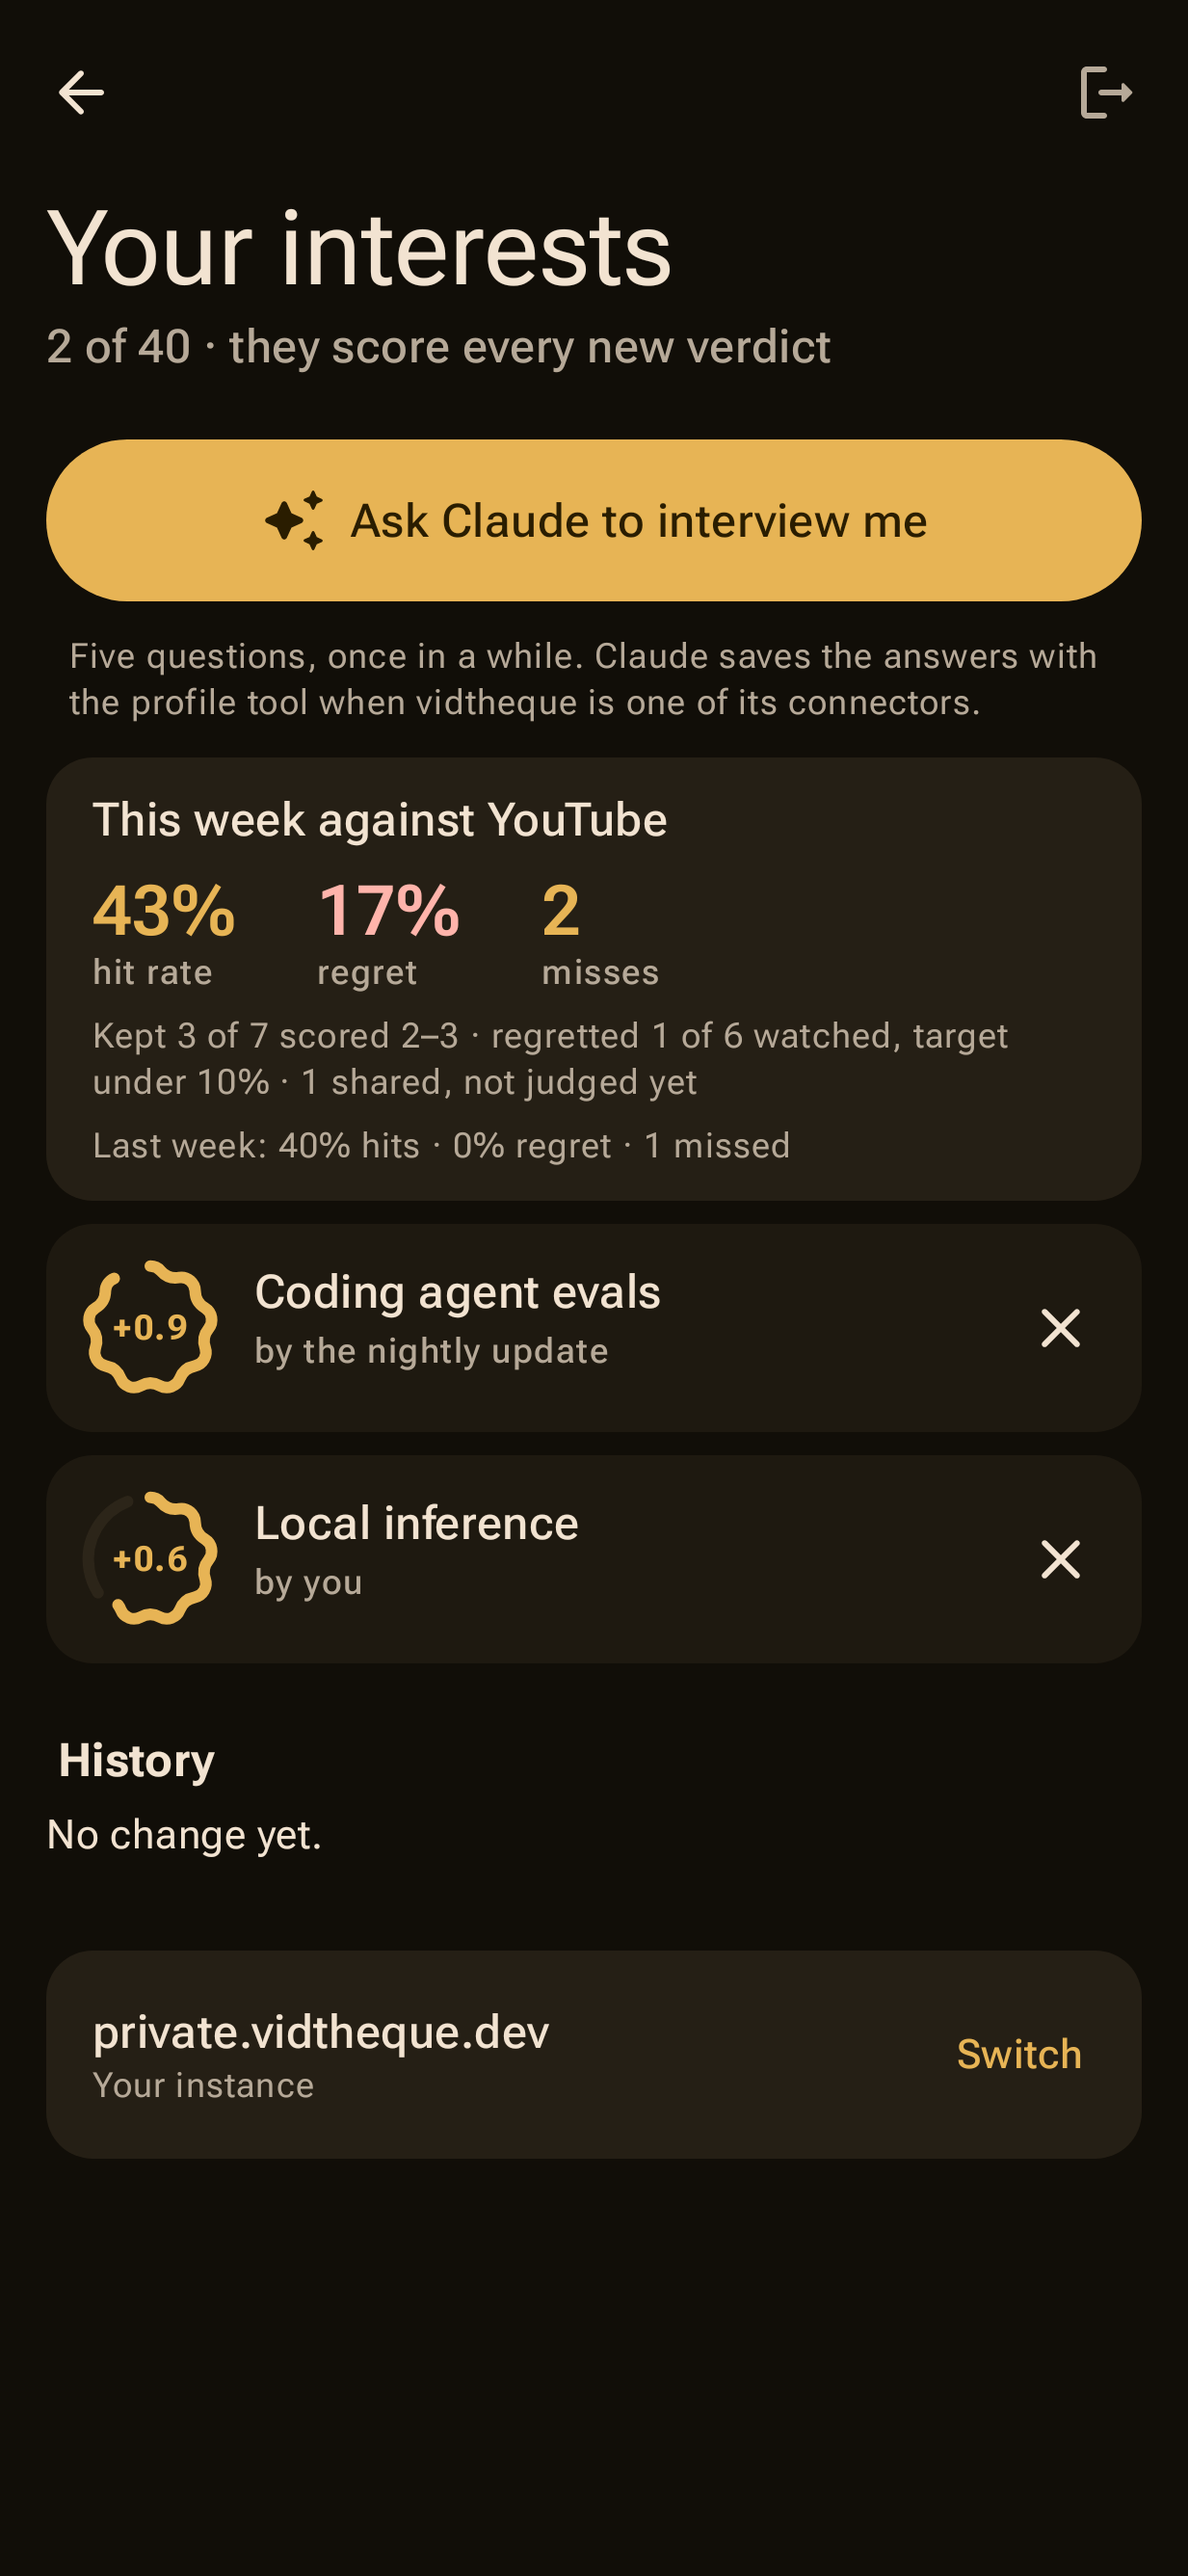
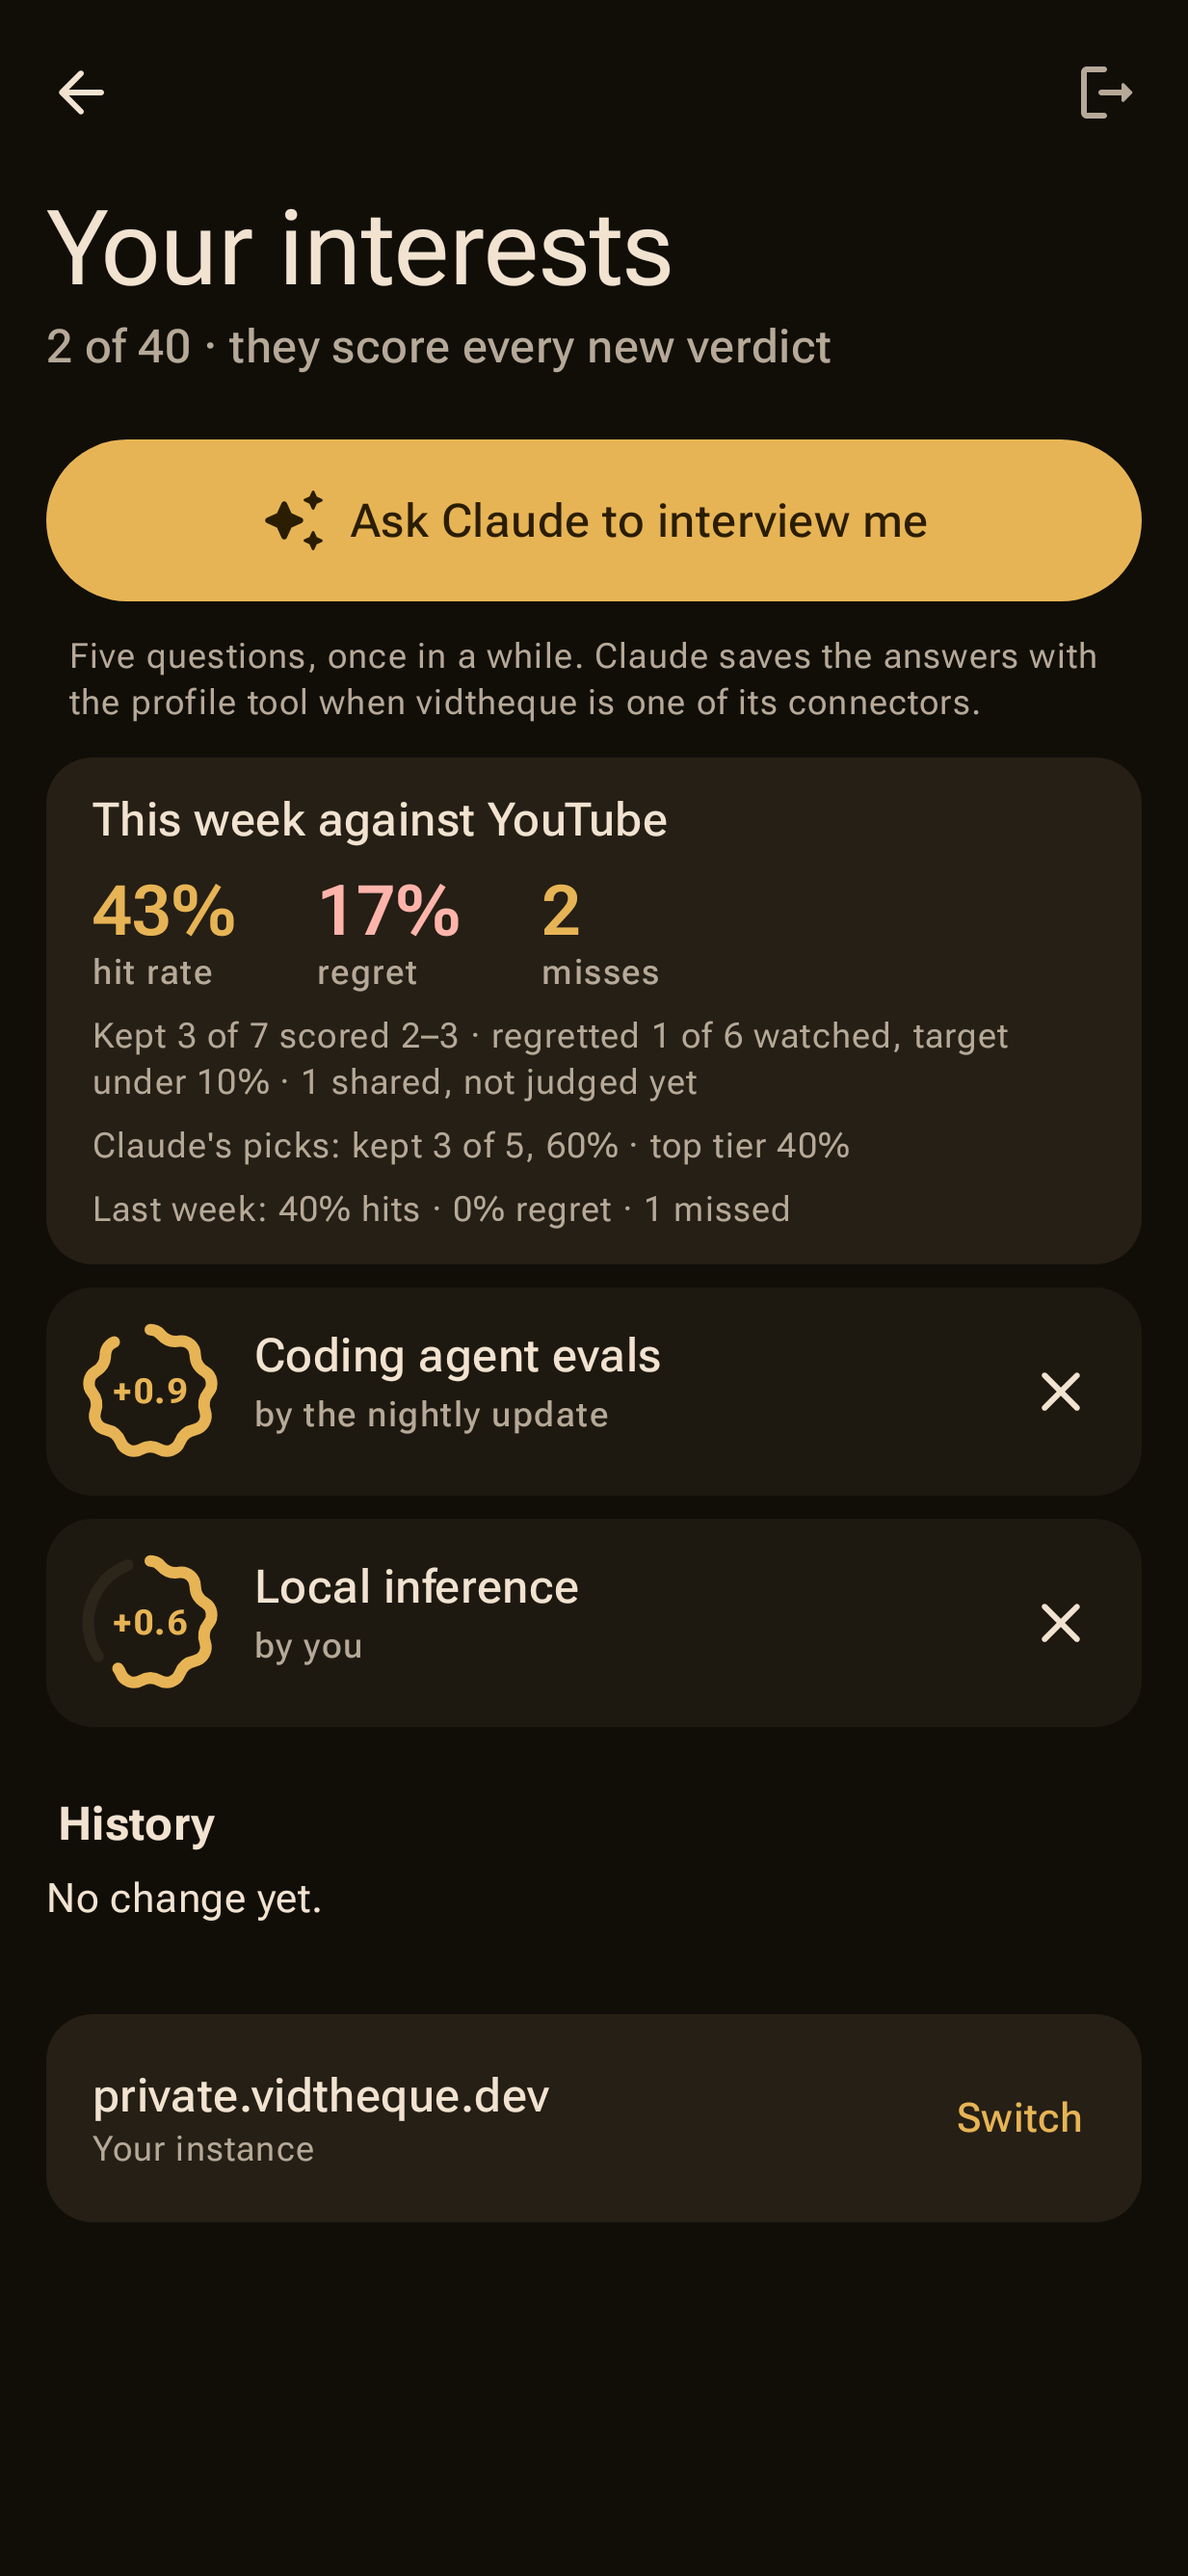
android: Claude's picks open the week, each with its reason (#200)
A pick opens its video alone: the same video can sit in the fitted list
below. The ledger card puts the picks' hit rate beside the top tier's.

diff --git a/android/app/src/main/kotlin/dev/vidtheque/app/ui/week/WeekScreen.kt b/android/app/src/main/kotlin/dev/vidtheque/app/ui/week/WeekScreen.kt
@@ -7,6 +7,8 @@ import androidx.compose.foundation.layout.Column
 import androidx.compose.foundation.layout.PaddingValues
 import androidx.compose.foundation.layout.Row
 import androidx.compose.foundation.layout.Spacer
+import androidx.compose.foundation.layout.aspectRatio
+import androidx.compose.foundation.layout.width
 import androidx.compose.foundation.layout.fillMaxHeight
 import androidx.compose.foundation.layout.fillMaxSize
 import androidx.compose.foundation.layout.fillMaxWidth
@@ -22,6 +24,8 @@ import androidx.compose.material.icons.Icons
 import androidx.compose.material.icons.automirrored.rounded.KeyboardArrowLeft
 import androidx.compose.material.icons.automirrored.rounded.KeyboardArrowRight
 import androidx.compose.material3.AlertDialog
+import androidx.compose.material3.Card
+import androidx.compose.material3.CardDefaults
 import androidx.compose.material3.ExperimentalMaterial3Api
 import androidx.compose.material3.ExperimentalMaterial3ExpressiveApi
 import androidx.compose.material3.FilledTonalButton
@@ -44,6 +48,8 @@ import androidx.compose.runtime.remember
 import androidx.compose.runtime.setValue
 import androidx.compose.ui.Alignment
 import androidx.compose.ui.Modifier
+import androidx.compose.ui.draw.clip
+import androidx.compose.ui.text.style.TextOverflow
 import androidx.compose.ui.platform.LocalConfiguration
 import androidx.compose.ui.input.nestedscroll.nestedScroll
 import androidx.compose.ui.semantics.clearAndSetSemantics
@@ -52,6 +58,7 @@ import androidx.compose.ui.text.TextRange
 import androidx.compose.ui.text.input.KeyboardType
 import androidx.compose.ui.text.input.TextFieldValue
 import androidx.compose.ui.unit.dp
+import dev.vidtheque.app.data.ClaudePick
 import dev.vidtheque.app.data.FeedItem
 import dev.vidtheque.app.data.FittedWeek
 import dev.vidtheque.app.ui.feed.Hero
@@ -59,6 +66,8 @@ import dev.vidtheque.app.ui.feed.Lift
 import dev.vidtheque.app.ui.feed.Row
 import dev.vidtheque.app.ui.feed.Still
 import dev.vidtheque.app.ui.feed.plainStill
+import dev.vidtheque.app.ui.asked
+import dev.vidtheque.app.ui.dated
 import dev.vidtheque.app.ui.minutes
 import java.time.LocalDate
 import java.time.format.DateTimeFormatter
@@ -78,6 +87,7 @@ fun WeekScreen(
     onWeek: (String?) -> Unit,
     onBudget: (Int) -> Unit,
     onOpen: (FeedItem) -> Unit,
+    onPick: (ClaudePick) -> Unit,
     onShowAll: () -> Unit,
     still: Still = plainStill,
     card: Lift = { _, _ -> Modifier },
@@ -114,6 +124,10 @@ fun WeekScreen(
                 modifier = Modifier.fillMaxSize(),
             ) {
                 item(key = "head") { Head(week, ui.budgetFailed, onWeek, onBudget) }
+                if (week.picks.isNotEmpty()) {
+                    item(key = "picks") { Text("Claude's picks", style = MaterialTheme.typography.titleMedium, modifier = Modifier.padding(top = 8.dp)) }
+                    itemsIndexed(week.picks, key = { _, it -> "pick-${it.videoId}" }) { _, pick -> PickRow(pick, still) { onPick(pick) } }
+                }
                 itemsIndexed(week.items, key = { _, it -> "week-${it.videoId}" }) { index, item ->
                     if (index == 0) Hero(item, still, card) { onOpen(item) } else Row(item, still, card) { onOpen(item) }
                 }
@@ -125,8 +139,40 @@ fun WeekScreen(
 }
 
 /** Where [videoId]'s card sits in the week's list, as the LazyColumn lays it out, or null. */
-fun weekIndex(ui: WeekUi, videoId: String): Int? =
-    ui.week?.items?.indexOfFirst { it.videoId == videoId }?.takeIf { it >= 0 }?.let { it + 1 }
+fun weekIndex(ui: WeekUi, videoId: String): Int? {
+    val week = ui.week ?: return null
+    // The head, then the picks' label and rows when there are any.
+    val before = 1 + if (week.picks.isEmpty()) 0 else 1 + week.picks.size
+    return week.items.indexOfFirst { it.videoId == videoId }.takeIf { it >= 0 }?.let { it + before }
+}
+
+/**
+ * One of Claude's picks (companion.md §6.4): its reason in full, since the reason is the point.
+ * Opened alone, with no shared card: the same video may also be in the fitted list below.
+ */
+@Composable
+private fun PickRow(pick: ClaudePick, still: Still, onClick: () -> Unit) {
+    Card(
+        onClick = onClick,
+        colors = CardDefaults.cardColors(containerColor = MaterialTheme.colorScheme.secondaryContainer),
+        modifier = Modifier.fillMaxWidth(),
+    ) {
+        Row(Modifier.padding(12.dp), horizontalArrangement = Arrangement.spacedBy(12.dp)) {
+            still(pick.videoId, Modifier.width(128.dp).aspectRatio(16f / 9f).clip(MaterialTheme.shapes.medium))
+            Column(Modifier.weight(1f), verticalArrangement = Arrangement.spacedBy(4.dp)) {
+                Text(
+                    listOfNotNull(pick.channel, pick.publishedAt?.let { dated(it) }, asked(pick.momentsS, pick.durationS)).joinToString(" · "),
+                    style = MaterialTheme.typography.labelMedium,
+                    color = MaterialTheme.colorScheme.onSecondaryContainer,
+                    maxLines = 2,
+                    overflow = TextOverflow.Ellipsis,
+                )
+                Text(pick.title, style = MaterialTheme.typography.titleSmall, color = MaterialTheme.colorScheme.onSecondaryContainer, maxLines = 2, overflow = TextOverflow.Ellipsis)
+            }
+        }
+        Text(pick.reason, style = MaterialTheme.typography.bodyMedium, color = MaterialTheme.colorScheme.onSecondaryContainer, modifier = Modifier.padding(start = 12.dp, end = 12.dp, bottom = 12.dp))
+    }
+}
 
 @Composable
 private fun Head(week: FittedWeek, budgetFailed: Boolean, onWeek: (String?) -> Unit, onBudget: (Int) -> Unit) {

diff --git a/android/app/src/test/kotlin/dev/vidtheque/app/ScreenshotTest.kt b/android/app/src/test/kotlin/dev/vidtheque/app/ScreenshotTest.kt
@@ -18,6 +18,13 @@ import dev.vidtheque.app.data.Regret
 import dev.vidtheque.app.data.SearchHit
 import dev.vidtheque.app.data.ValuedTime
 import dev.vidtheque.app.data.Week
+import dev.vidtheque.app.data.ClaudePick
+import dev.vidtheque.app.data.FeedItem
+import dev.vidtheque.app.data.FittedWeek
+import dev.vidtheque.app.data.PickHits
+import dev.vidtheque.app.data.WeekDay
+import dev.vidtheque.app.ui.week.WeekScreen
+import dev.vidtheque.app.ui.week.WeekUi
 import dev.vidtheque.app.ui.profile.ProfileContent
 import dev.vidtheque.app.ui.profile.ProfileUi
 import dev.vidtheque.app.ui.search.SearchContent
@@ -110,7 +117,7 @@ class ScreenshotTest {
         val ledger = ValuedTime(
             0.1,
             listOf(
-                Week(1791756000, true, Hits(3, 7, 0.429), Regret(1, 6, 0.167), Misses(2, 1, 4)),
+                Week(1791756000, true, Hits(3, 7, 0.429), Regret(1, 6, 0.167), Misses(2, 1, 4), top = Hits(2, 5, 0.4), picks = PickHits(5, 3, 0.6)),
                 Week(1791151200, false, Hits(4, 10, 0.4), Regret(0, 5, 0.0), Misses(1, 0, 2)),
             ),
         )
@@ -238,6 +245,35 @@ class ScreenshotTest {
             }
         }
         compose.onRoot().captureRoboImage("screenshots/brief.png")
+    }
+
+    // Claude's picks open the week, each with its reason in full (companion.md §6.4).
+    @Test
+    fun weekPicks() {
+        val week = FittedWeek(
+            week = "2026-09-28",
+            previous = "2026-09-21",
+            budgetMin = 210,
+            asksS = 3900.0,
+            items = listOf(
+                FeedItem("kCc8FmEb1nY", "Let's build GPT: from scratch, in code, spelled out.", "Andrej Karpathy", 7000.0, null, 3, tier = 3, reason = "The clearest walk through attention and the KV cache.", momentsS = 900.0, asksS = 3600.0),
+            ),
+            picks = listOf(
+                ClaudePick("zduSFxRajkE", "Let's build the GPT Tokenizer", "Andrej Karpathy", 7998.0, null, "The byte-pair merge loop is the piece your tokenizer bug report kept circling.", score = 2, momentsS = 540.0),
+                ClaudePick("L9QZ97y9Exg", "Your local LLM is 10x slower than it should be", "Alex Ziskind", 660.0, null, "Short, and its llama.cpp batch numbers answer the throughput question from Tuesday.", score = 1),
+            ),
+            days = (0..6).map { WeekDay("2026-${if (it < 3) "09-${28 + it}" else "10-0${it - 2}"}", if (it == 2) 3900.0 else 0.0, if (it == 2) 1 else 0, if (it == 2) 3 else 0) },
+        )
+        compose.setContent {
+            VidthequeTheme(darkTheme = true) {
+                WeekScreen(
+                    ui = WeekUi(week = week),
+                    onRefresh = {}, onWeek = {}, onBudget = {}, onOpen = {}, onPick = {}, onShowAll = {},
+                    still = { _, modifier -> Box(modifier.background(MaterialTheme.colorScheme.surfaceVariant)) },
+                )
+            }
+        }
+        compose.onRoot().captureRoboImage("screenshots/week-picks.png")
     }
 
     @Test

diff --git a/android/app/src/main/kotlin/dev/vidtheque/app/data/Api.kt b/android/app/src/main/kotlin/dev/vidtheque/app/data/Api.kt
@@ -59,6 +59,20 @@ data class WeekDay(val day: String, @SerialName("asks_s") val asksS: Double = 0.
 @Serializable
 data class WeekRest(val count: Int = 0, @SerialName("asks_s") val asksS: Double = 0.0)
 
+/** One of Claude's picks atop the week, with its reason (companion.md §6.4). */
+@Serializable
+data class ClaudePick(
+    @SerialName("video_id") val videoId: String,
+    val title: String,
+    val channel: String? = null,
+    @SerialName("duration_s") val durationS: Double = 0.0,
+    @SerialName("published_at") val publishedAt: Long? = null,
+    val reason: String,
+    /** The video's verdict; null when it has none. */
+    val score: Int? = null,
+    @SerialName("moments_s") val momentsS: Double? = null,
+)
+
 /** The week's ranked verdicts fitted to the owner's minutes (dashboard.md §25.13). */
 @Serializable
 data class FittedWeek(
@@ -68,6 +82,7 @@ data class FittedWeek(
     @SerialName("budget_min") val budgetMin: Int,
     @SerialName("asks_s") val asksS: Double = 0.0,
     val items: List<FeedItem> = emptyList(),
+    val picks: List<ClaudePick> = emptyList(),
     val days: List<WeekDay> = emptyList(),
     val rest: WeekRest = WeekRest(),
     /** The week holds 40 candidates or more, the most it compares. */

diff --git a/android/app/src/main/kotlin/dev/vidtheque/app/ui/profile/ValuedTimeCard.kt b/android/app/src/main/kotlin/dev/vidtheque/app/ui/profile/ValuedTimeCard.kt
@@ -56,6 +56,13 @@ fun ValuedTimeCard(ledger: ValuedTime) {
                 Figure("${week.misses.count}", if (week.misses.count == 1) "miss" else "misses")
             }
             Text(detail(week, ledger.regretTarget), style = MaterialTheme.typography.bodySmall, color = MaterialTheme.colorScheme.onSurfaceVariant)
+            week.picks?.takeIf { it.picked > 0 }?.let { picks ->
+                Text(
+                    "Claude's picks: kept ${picks.kept} of ${picks.picked}, ${percent(picks.rate)} · top tier ${percent(week.top?.rate)}",
+                    style = MaterialTheme.typography.bodySmall,
+                    color = MaterialTheme.colorScheme.onSurfaceVariant,
+                )
+            }
             ledger.weeks.getOrNull(1)?.let {
                 Text(
                     "Last week: ${percent(it.hits.rate)} hits · ${percent(it.regret.rate)} regret · ${it.misses.count} missed",

diff --git a/android/app/src/main/kotlin/dev/vidtheque/app/data/ValuedTime.kt b/android/app/src/main/kotlin/dev/vidtheque/app/data/ValuedTime.kt
@@ -18,6 +18,10 @@ data class Misses(val count: Int, val pending: Int = 0, val shared: Int = 0)
 @Serializable
 data class OutsideHits(val shown: Int = 0, val kept: Int = 0, val rate: Double? = null)
 
+/** Claude's picks made that week and how many were kept (companion.md §6.4). */
+@Serializable
+data class PickHits(val picked: Int = 0, val kept: Int = 0, val rate: Double? = null)
+
 @Serializable
 data class Week(
     val start: Long,
@@ -26,6 +30,9 @@ data class Week(
     val regret: Regret,
     val misses: Misses,
     val outside: OutsideHits? = null,
+    /** The week's 3s, what Claude's picks are held against. */
+    val top: Hits? = null,
+    val picks: PickHits? = null,
 )
 
 @Serializable

diff --git a/android/app/src/main/kotlin/dev/vidtheque/app/ui/Root.kt b/android/app/src/main/kotlin/dev/vidtheque/app/ui/Root.kt
@@ -237,6 +237,7 @@ fun SignedIn(opening: MutableStateFlow<String?>, openingBrief: MutableStateFlow<
                             onWeek = week::go,
                             onBudget = week::budget,
                             onOpen = { stack.add(VideoKey(it.videoId, it.title, it.channel.orEmpty())) },
+                            onPick = { stack.add(VideoKey(it.videoId, it.title, it.channel.orEmpty(), alone = true)) },
                             onShowAll = { stack.add(AllKey) },
                             card = sharedCard,
                             list = weekList,
